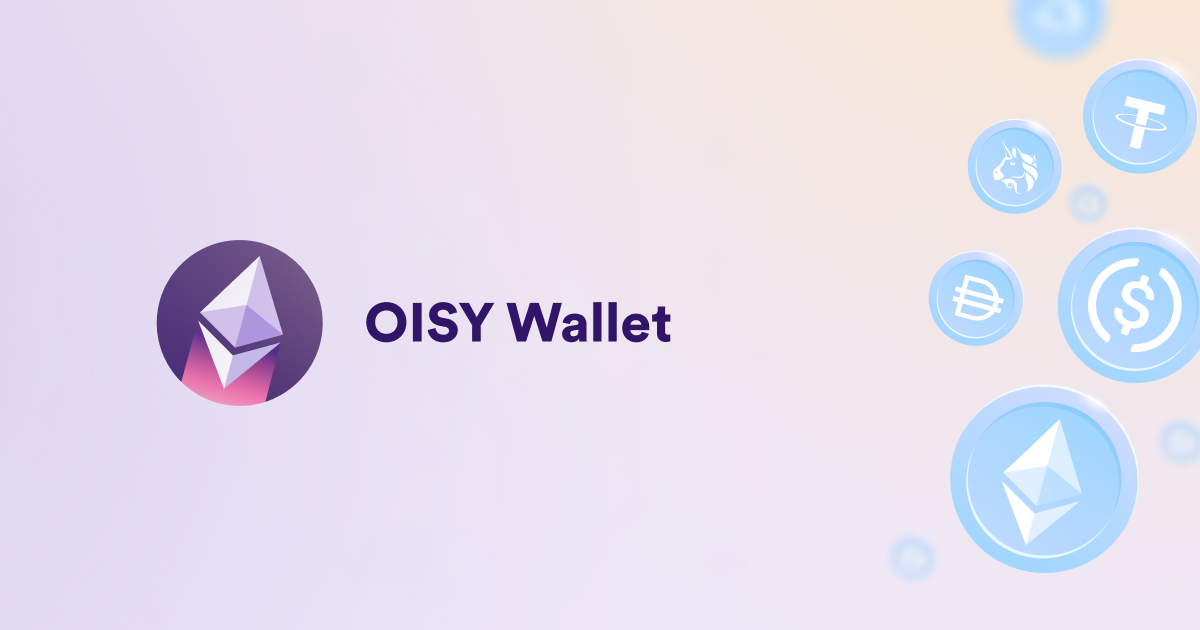
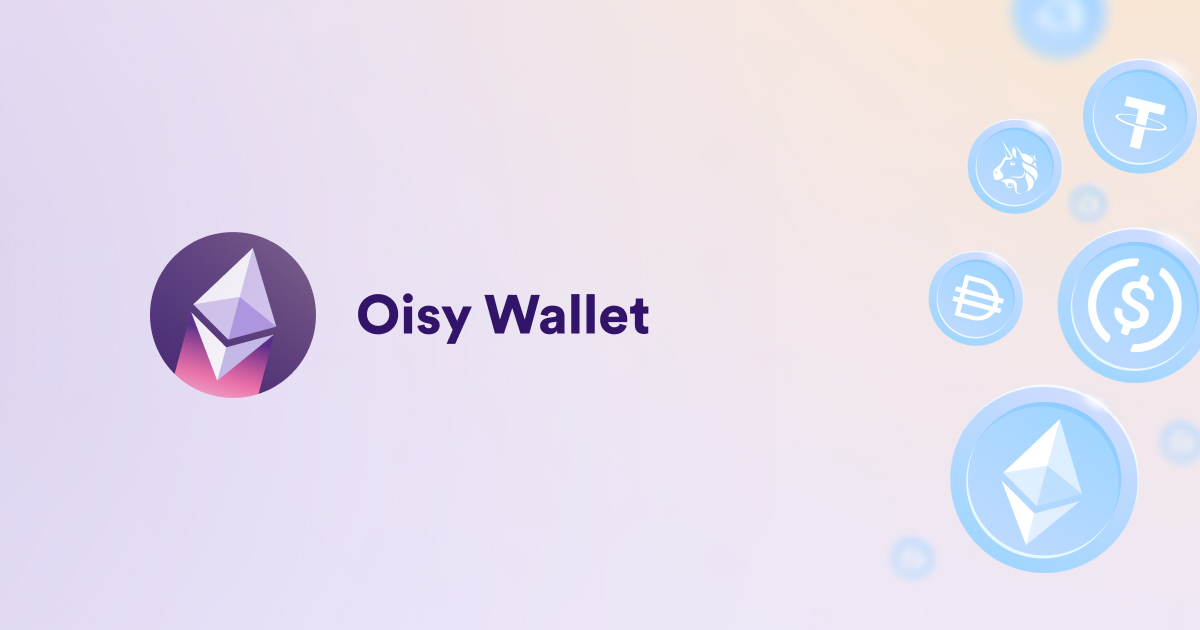
feat(frontend): oisy naming consistency

Changed region(s): [[0.1233, 0.3619, 0.555, 0.6635]]

diff --git a/src/frontend/src/lib/components/core/SignInSection.svelte b/src/frontend/src/lib/components/core/SignInSection.svelte
@@ -2,6 +2,7 @@
 	import { signIn } from '$lib/services/auth.services';
 	import ButtonIC from '$lib/components/ui/ButtonIC.svelte';
 	import OisyWalletLogo from '$lib/components/icons/OisyWalletLogo.svelte';
+	import { OISY_NAME } from '$lib/constants/oisy.constants';
 </script>
 
 <section class="flex flex-col justify-center items-center sm:pt-0 sm:pb-8 relative z-1">
@@ -12,9 +13,9 @@
 	</h1>
 
 	<p class="text-center pb-4 xs:px-3 sm:px-4 mb-0.25" style="max-width: 600px">
-		OISY provides a seamless on-chain experience to manage your Ethereum assets. Using native web
-		technologies and advanced cryptography, OISY eliminates the need for browser extensions or
-		mobile apps.
+		{OISY_NAME} provides a seamless on-chain experience to manage your Ethereum assets. Using native
+		web technologies and advanced cryptography, {OISY_NAME} eliminates the need for browser extensions
+		or mobile apps.
 	</p>
 
 	<ButtonIC on:click={async () => await signIn({})}>
